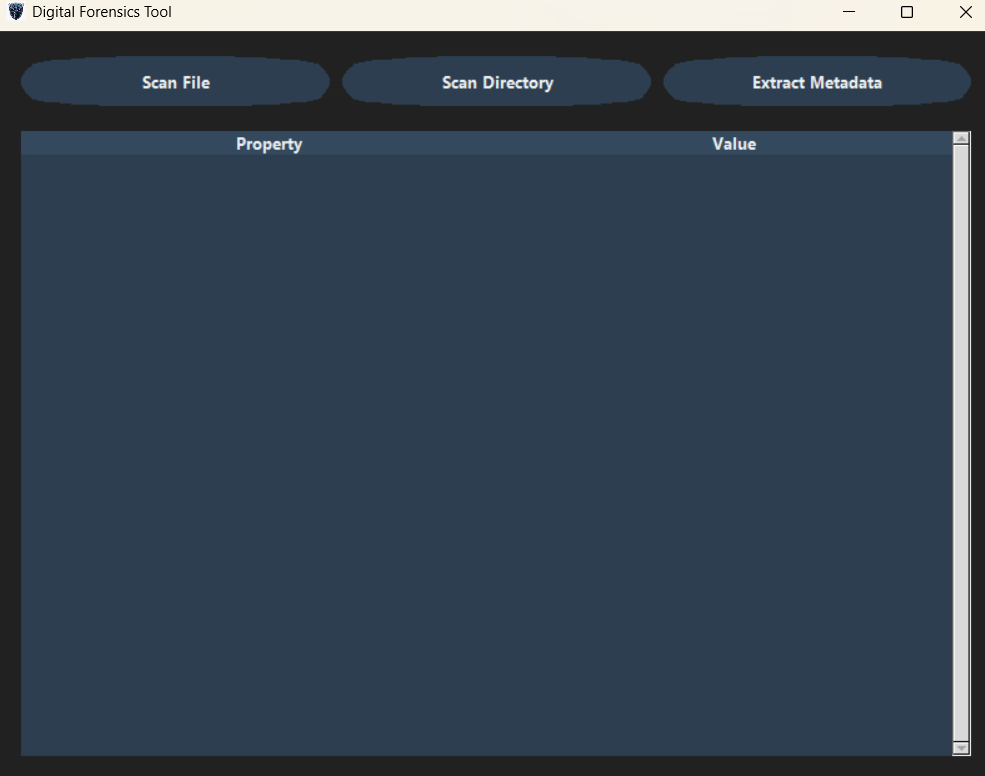
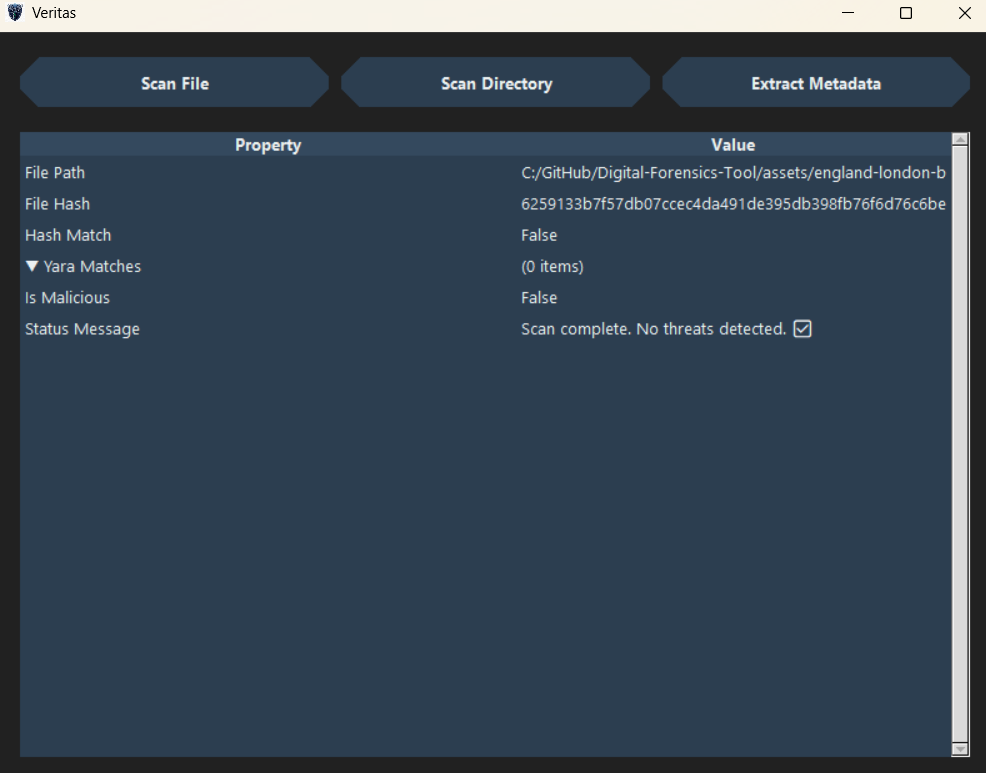
v1.0

diff --git a/main_ui.py b/main_ui.py
@@ -48,7 +48,7 @@ class RoundedButton(tkinter.Canvas):
         if width <= 1 or height <= 1: return
         radius = min(self.radius, width/2, height/2)
         bg = color
-        self.create_polygon( (radius, 0, width-radius, 0, width, radius, width, height-radius, width-radius, height, radius, height, 0, height-radius, 0, radius), fill=bg, smooth=True )
+        self.create_polygon( (radius, 0, width-radius, 0, width, radius, width, height-radius, width-radius, height, radius, height, 0, height-radius, 0, radius), fill=bg, smooth=False )
         self.create_text(width/2, height/2, text=self.text, font=self.font, fill=self.fg_color)
     def _on_resize(self, event):
         if self._state == "hover": self.draw(color=self.hover_color)
@@ -67,7 +67,7 @@ class RoundedButton(tkinter.Canvas):
 # --- APPLICATION LOGIC ---
 class ForensicToolApp:
     def __init__(self, root):
-        self.root = root; self.root.title("Digital Forensics Tool"); self.root.geometry("800x600"); self.root.configure(bg=THEME["root_bg"]);
+        self.root = root; self.root.title("Veritas"); self.root.geometry("800x600"); self.root.configure(bg=THEME["root_bg"]);
         try: self.root.eval('tk::PlaceWindow . center')
         except tkinter.TclError: print("Could not center window.")
         icon_path = os.path.join('assets', 'logo.ico');

diff --git a/README.md b/README.md
@@ -1,4 +1,4 @@
-# Digital Forensics Tool
+# Veritas
 
 ![Language](https://img.shields.io/badge/Language-Python-blue.svg)
 
